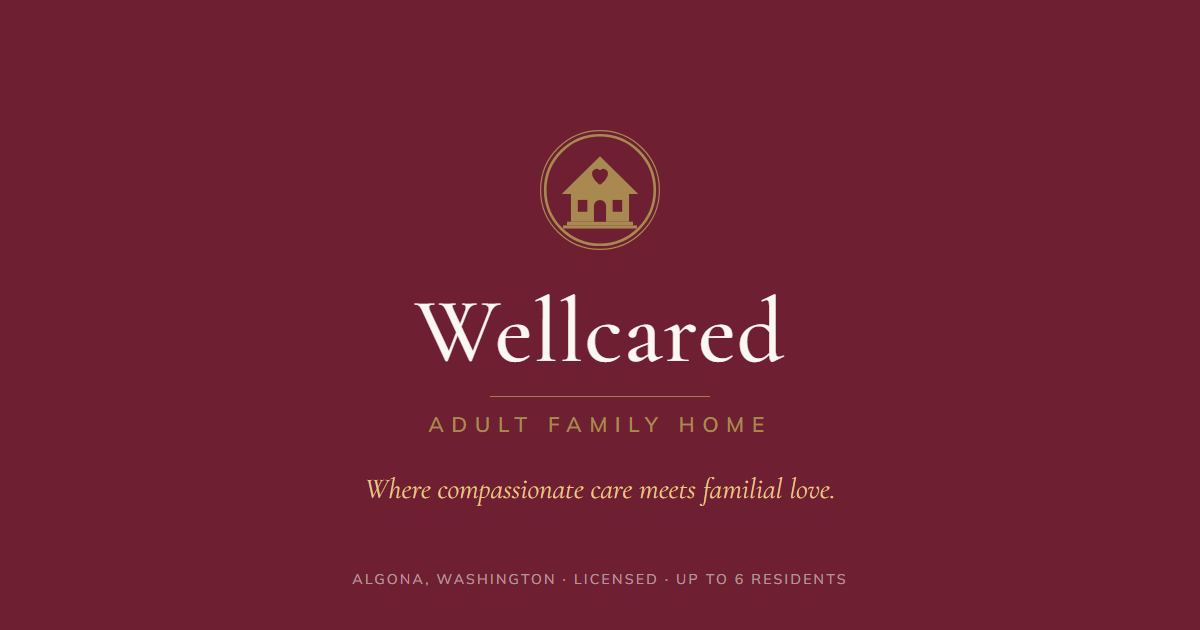
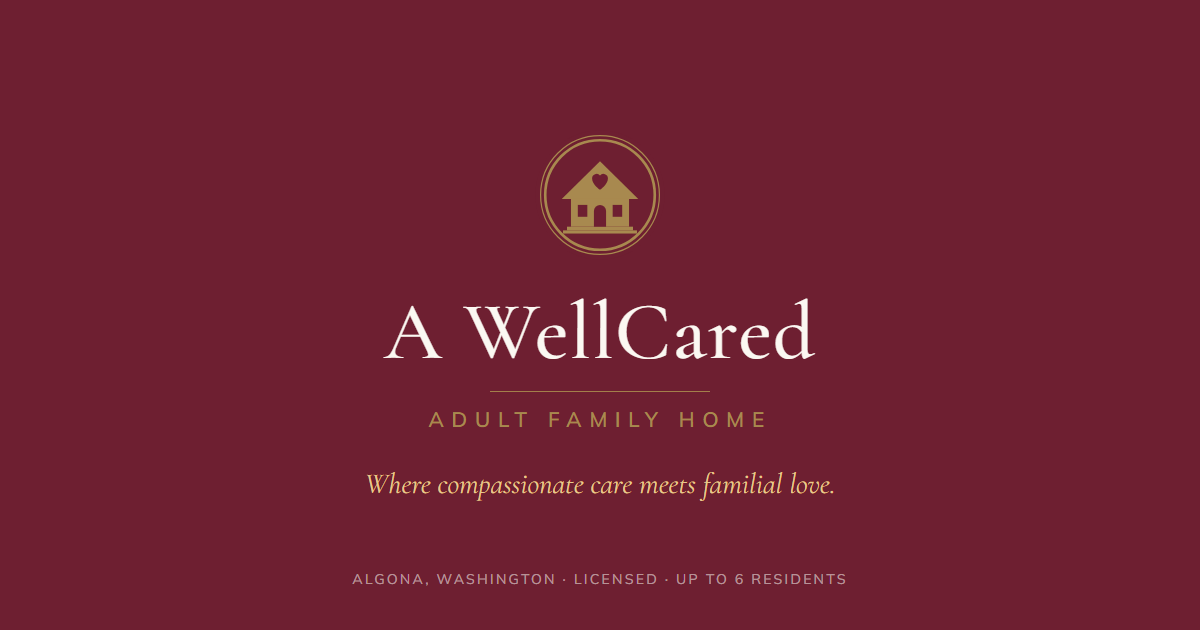
Correct the name to A WellCared
Capital C and the leading A, per Marjorie. Updated the wordmark, title,
schema, social card, 404 and robots. Domain awellcaredhome.com and
hello@awellcaredhome.com are unchanged.

diff --git a/awellcared/index.html b/awellcared/index.html
@@ -17,7 +17,7 @@
      =================================================================== -->
 <meta name="robots" content="noindex, nofollow">
 
-<title>A Wellcared Adult Family Home | Adult Family Home in Algona, WA</title>
+<title>A WellCared Adult Family Home | Adult Family Home in Algona, WA</title>
 <meta name="description" content="A licensed adult family home in Algona, WA caring for up to 6 residents. Private pay and Medicaid welcome. Personal, family-centered care from an owner who is here every day. Call (253) 204-4590.">
 <link rel="canonical" href="https://fullcensus.org/awellcared/">
 <meta name="theme-color" content="#6e1f31">
@@ -28,7 +28,7 @@
 <meta name="geo.region" content="US-WA">
 <meta name="geo.placename" content="Algona, Washington">
 
-<meta property="og:title" content="A Wellcared Adult Family Home | Algona, WA">
+<meta property="og:title" content="A WellCared Adult Family Home | Algona, WA">
 <meta property="og:description" content="A licensed adult family home in Algona, WA for up to 6 residents. We don't just provide care. We become family.">
 <meta property="og:type" content="website">
 <meta property="og:locale" content="en_US">
@@ -36,9 +36,9 @@
 <meta property="og:image" content="https://fullcensus.org/awellcared/images/og-image.png">
 <meta property="og:image:width" content="1200">
 <meta property="og:image:height" content="630">
-<meta property="og:site_name" content="A Wellcared Adult Family Home">
+<meta property="og:site_name" content="A WellCared Adult Family Home">
 <meta name="twitter:card" content="summary_large_image">
-<meta name="twitter:title" content="A Wellcared Adult Family Home | Algona, WA">
+<meta name="twitter:title" content="A WellCared Adult Family Home | Algona, WA">
 <meta name="twitter:description" content="A licensed adult family home in Algona, WA for up to 6 residents. We don't just provide care. We become family.">
 <meta name="twitter:image" content="https://fullcensus.org/awellcared/images/og-image.png">
 
@@ -51,8 +51,8 @@
 {"@context":"https://schema.org",
 "@type":["LocalBusiness","ResidentialCare"],
 "@id":"https://awellcaredhome.com/#home",
-"name":"A Wellcared Adult Family Home",
-"alternateName":"A Wellcared AFH LLC",
+"name":"A WellCared Adult Family Home",
+"alternateName":"A WellCared AFH LLC",
 "description":"A licensed adult family home in Algona, Washington providing personalized, compassionate care for up to 6 residents. Private pay and Medicaid accepted.",
 "url":"https://awellcaredhome.com/",
 "email":"hello@awellcaredhome.com",
@@ -74,7 +74,7 @@
 "mainEntity":[
 {"@type":"Question","name":"How is an adult family home different from assisted living?","acceptedAnswer":{"@type":"Answer","text":"An adult family home is a licensed private residence caring for a small number of people, six in our case, rather than a large facility with dozens of rooms. It means far more one on one attention, and it feels like a house, because it is one."}},
 {"@type":"Question","name":"What areas do you serve?","acceptedAnswer":{"@type":"Answer","text":"We are in Algona, Washington, and we welcome families from Auburn, Pacific, Federal Way, Kent, and across South King County."}},
-{"@type":"Question","name":"Do you accept Medicaid?","acceptedAnswer":{"@type":"Answer","text":"Yes. A Wellcared Adult Family Home welcomes both private pay and Medicaid residents."}},
+{"@type":"Question","name":"Do you accept Medicaid?","acceptedAnswer":{"@type":"Answer","text":"Yes. A WellCared Adult Family Home welcomes both private pay and Medicaid residents."}},
 {"@type":"Question","name":"How many residents live here?","acceptedAnswer":{"@type":"Answer","text":"We are licensed for up to six residents. Keeping the home small is what allows us to give each person the attention they deserve."}},
 {"@type":"Question","name":"Who actually provides the care?","acceptedAnswer":{"@type":"Answer","text":"Marjorie, the owner and provider, is personally involved in the day to day care, alongside our caregivers. Someone is here around the clock."}},
 {"@type":"Question","name":"Can we come and see the home first?","acceptedAnswer":{"@type":"Answer","text":"Yes. Visits are welcome by appointment. Call (253) 204-4590 and we will find a time that works for your family."}}]}
@@ -378,10 +378,10 @@ form input:focus,form select:focus,form textarea:focus{outline:2px solid var(--b
 
   <!-- ============ HEADER ============ -->
   <header class="hdr">
-    <a class="brand" href="#top" aria-label="Wellcared Adult Family Home, home">
+    <a class="brand" href="#top" aria-label="WellCared Adult Family Home, home">
       <img class="mark" src="images/mark-small.svg" alt="" width="38" height="38">
       <div>
-        <div class="wm">Wellcared</div>
+        <div class="wm">A WellCared</div>
         <div class="wm-rule"></div>
         <div class="wm-k">Adult Family Home</div>
       </div>
@@ -484,7 +484,7 @@ form input:focus,form select:focus,form textarea:focus{outline:2px solid var(--b
       <div class="car-track" id="qTrack" tabindex="0">
       <div class="quote">
         <div class="q-mark" aria-hidden="true">&ldquo;</div>
-        <p>&ldquo;I strongly endorse A Wellcared AFH as a place for your loved ones to live. It is one of the best adult home care facilities I have ever experienced. The team, including and especially Marjorie, show compassion and patience towards the residents and their families. They go out of their way to ensure the residents are receiving all of the medical, physical and emotional support that they need. The staff are very personal and they become friends or even like family to the residents, and by proxy to the families of the residents. If you value more than just sterile, check the boxes, type of care, but true &lsquo;this is our residents&rsquo; home&rsquo; kind of attention and care, A Wellcared with its supportive staff is the place to be.&rdquo;</p>
+        <p>&ldquo;I strongly endorse A WellCared AFH as a place for your loved ones to live. It is one of the best adult home care facilities I have ever experienced. The team, including and especially Marjorie, show compassion and patience towards the residents and their families. They go out of their way to ensure the residents are receiving all of the medical, physical and emotional support that they need. The staff are very personal and they become friends or even like family to the residents, and by proxy to the families of the residents. If you value more than just sterile, check the boxes, type of care, but true &lsquo;this is our residents&rsquo; home&rsquo; kind of attention and care, A WellCared with its supportive staff is the place to be.&rdquo;</p>
         <div class="q-name">David H.</div>
         <div class="q-rel">Family of a resident</div>
       </div>
@@ -508,7 +508,7 @@ form input:focus,form select:focus,form textarea:focus{outline:2px solid var(--b
       </div>
       <div class="quote">
         <div class="q-mark" aria-hidden="true">&ldquo;</div>
-        <p>&ldquo;A Wellcared truly lives up to its name. Our provider doesn&rsquo;t only care for the residents, she also takes great care of all of us as staff. When we&rsquo;re supported and appreciated, we can give our residents the compassionate care they deserve.&rdquo;</p>
+        <p>&ldquo;A WellCared truly lives up to its name. Our provider doesn&rsquo;t only care for the residents, she also takes great care of all of us as staff. When we&rsquo;re supported and appreciated, we can give our residents the compassionate care they deserve.&rdquo;</p>
         <div class="q-name">Wennie P.</div>
         <div class="q-rel">Caregiver</div>
       </div>
@@ -601,7 +601,7 @@ form input:focus,form select:focus,form textarea:focus{outline:2px solid var(--b
          target="_blank" rel="noopener" data-cta="directions" data-loc="location">Get Directions</a>
     </div>
     <div class="loc-map">
-      <iframe title="Map showing A Wellcared Adult Family Home in Algona, Washington" loading="lazy"
+      <iframe title="Map showing A WellCared Adult Family Home in Algona, Washington" loading="lazy"
         referrerpolicy="no-referrer-when-downgrade" allowfullscreen
         src="https://maps.google.com/maps?q=315+Algona+Blvd+S,+Algona,+WA+98001&z=15&output=embed"></iframe>
     </div>
@@ -675,7 +675,7 @@ form input:focus,form select:focus,form textarea:focus{outline:2px solid var(--b
     </div>
     <div class="close-ov"></div>
     <div class="close-in">
-      <div class="kick">Visit A Wellcared</div>
+      <div class="kick">Visit A WellCared</div>
       <h2>Your loved one deserves a home, not a facility.</h2>
       <p>Come meet us, see the rooms, and meet the caregivers. There is no pressure, just a warm welcome and an honest conversation.</p>
       <div class="hero-btns">
@@ -689,7 +689,7 @@ form input:focus,form select:focus,form textarea:focus{outline:2px solid var(--b
   <footer class="foot">
     <div class="foot-grid">
       <div>
-        <div style="font-family:'Cormorant Garamond',serif;font-size:20px;font-weight:600;color:var(--burgundy);margin-bottom:6px">A Wellcared Adult Family Home</div>
+        <div style="font-family:'Cormorant Garamond',serif;font-size:20px;font-weight:600;color:var(--burgundy);margin-bottom:6px">A WellCared Adult Family Home</div>
         315 Algona Blvd S, Algona, WA 98001<br>
         <a href="tel:+12532044590" data-cta="call" data-loc="footer">(253) 204-4590</a> &middot;
         <a href="tel:+14088215329" data-cta="call" data-loc="footer_mobile">(408) 821-5329</a><br>
@@ -709,7 +709,7 @@ form input:focus,form select:focus,form textarea:focus{outline:2px solid var(--b
     </div>
     <div class="foot-bot">
       <span>Licensed Adult Family Home &middot; Washington State DSHS &middot; License #756787</span>
-      <span>&copy; <span id="yr">2026</span> A Wellcared AFH LLC &middot; Website by <a href="https://fullcensus.org" target="_blank" rel="noopener" data-cta="outbound" data-loc="footer">Full Census</a></span>
+      <span>&copy; <span id="yr">2026</span> A WellCared AFH LLC &middot; Website by <a href="https://fullcensus.org" target="_blank" rel="noopener" data-cta="outbound" data-loc="footer">Full Census</a></span>
     </div>
   </footer>
 </div>
@@ -869,8 +869,8 @@ if(form){
       fetch('https://api.web3forms.com/submit',{method:'POST',
         headers:{'Content-Type':'application/json',Accept:'application/json'},
         body:JSON.stringify({access_key:WEB3FORMS_KEY,
-          subject:'New website inquiry - A Wellcared Adult Family Home',
-          from_name:'A Wellcared Website', replyto:em||'',
+          subject:'New website inquiry - A WellCared Adult Family Home',
+          from_name:'A WellCared Website', replyto:em||'',
           Name:n, Phone:p, Email:em||'(none)', 'Care for':rel||'(not said)',
           'Payment type':pay||'(not said)', Message:msg||'(none)'})}).catch(function(){});
     }

diff --git a/awellcared/404.html b/awellcared/404.html
@@ -4,7 +4,7 @@
 <meta charset="utf-8">
 <meta name="viewport" content="width=device-width, initial-scale=1">
 <meta name="robots" content="noindex">
-<title>Page not found | A Wellcared Adult Family Home</title>
+<title>Page not found | A WellCared Adult Family Home</title>
 <link rel="icon" href="images/favicon-32.png" sizes="32x32" type="image/png">
 <meta name="theme-color" content="#6e1f31">
 <link rel="preload" as="style" href="https://fonts.googleapis.com/css2?family=Cormorant+Garamond:wght@400;600&family=Mulish:wght@400;700;800&display=swap" onload="this.onload=null;this.rel='stylesheet'">
@@ -30,7 +30,7 @@ a.btn:hover{background:#5a1928}
 <body>
   <div class="wrap">
     <img class="mark" src="images/mark-small.svg" alt="" width="58" height="58">
-    <div class="kick">Wellcared &middot; Adult Family Home</div>
+    <div class="kick">A WellCared &middot; Adult Family Home</div>
     <h1>This page isn&rsquo;t here</h1>
     <p>The page you were looking for may have moved. Let&rsquo;s get you back home.</p>
     <a class="btn" href="/awellcared/">Return home</a>
